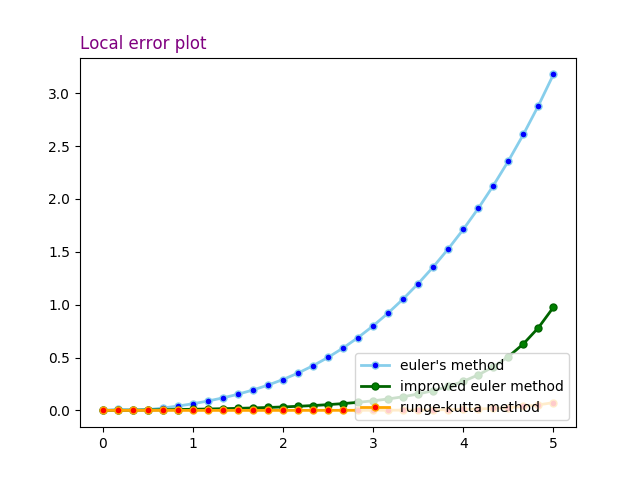
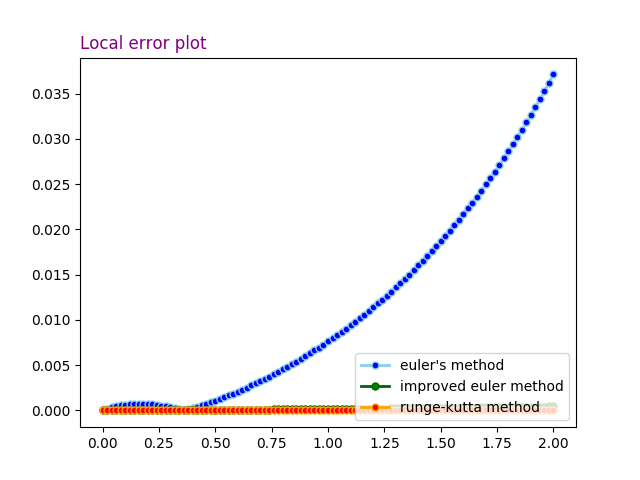
fixed last comments

diff --git a/plots-update.py b/plots-update.py
@@ -43,9 +43,7 @@ class Exact_equation:
 class Global_error:
 
     def get_error(self, y, n):
-        alfa = 0
-        for i in range(0, n + 1):
-            alfa = alfa + y[i]
+        alfa = y[n]
         return alfa
 
 
@@ -70,88 +68,87 @@ class Numerical_methods:
             return 0
         return math.exp(x) + 1/(const-x)
 
-    def get_curve(self):
+    def get_curve(self, n):
         pass
 
-    def get_error(self, y):
+    def get_error(self, y, n):
         pass
 
 
 class Eulers_method(Numerical_methods):
 
-    def get_curve(self):
-        x = [0]*(self.n+1)
-        y = [0]*(self.n+1)
-        h = (self.b-self.x0)/self.n
+    def get_curve(self, n):
+        x = [0]*(n+1)
+        y = [0]*(n+1)
+        h = (self.b-self.x0)/n
 
         y[0] = self.y0
         x[0] = self.x0
 
-        for i in range(1, self.n+1):
+        for i in range(1, n+1):
             x[i] = self.x0 + i*h
 
         # the equation of the tangent line
         y[1] = self.y0 + h*super().initial_value_problem(self.x0, self.y0)
-        for i in range(2, self.n+1):
+        for i in range(2, n+1):
             y[i] = y[i-1] + h*super().initial_value_problem(x[i-1], y[i-1])
 
         return y
 
-    def get_error(self, y):
-        x = [0]*(self.n+1)
+    def get_error(self, y, n):
+        x = [0]*(n+1)
         x[0] = self.x0
-        h = (self.b-self.x0)/self.n
+        h = (self.b-self.x0)/n
 
-        error = [0]*(self.n+1)
+        error = [0]*(n+1)
         error[0] = 0
 
-        for i in range(1, self.n+1):
+        for i in range(1,n+1):
             x[i] = self.x0 + i*h
 
         # error at the i th step.
-        for i in range(1, self.n+1):
-            error[i] = math.fabs(super().exact_solution(
-                x[i]) - y[i])  # math.fabs(X)
+        for i in range(1,n+1):
+            error[i] = math.fabs(super().exact_solution(x[i]) - y[i])  # math.fabs(X)
 
         return error
 
 
 class Improved_euler_method(Numerical_methods):
 
-    def get_curve(self):
-        x = [0]*(self.n+1)
-        y = [0]*(self.n+1)
-        h = (self.b-self.x0)/self.n
+    def get_curve(self, n):
+        x = [0]*(n+1)
+        y = [0]*(n+1)
+        h = (self.b-self.x0)/n
 
         y[0] = self.y0
         x[0] = self.x0
 
-        for i in range(1, self.n+1):
+        for i in range(1, n+1):
             x[i] = self.x0 + i*h
 
         # the equation of the tangent line
         y[1] = self.y0 + (h/2)*(super().initial_value_problem(self.x0, self.y0) +
                                 super().initial_value_problem(x[1], self.y0+h*super().initial_value_problem(self.x0, self.y0)))
-        for i in range(2, self.n+1):
+        for i in range(2, n+1):
             y[i] = y[i-1] + (h/2)*(super().initial_value_problem(x[i-1], y[i-1]) +
                                    super().initial_value_problem(x[i], y[i-1]+h*super().initial_value_problem(x[i-1], y[i-1])))
 
         return y
 
-    def get_error(self, y):
-        x = [0]*(self.n+1)
-        h = (self.b-self.x0)/self.n
+    def get_error(self, y, n):
+        x = [0]*(n+1)
+        h = (self.b-self.x0)/n
 
         x[0] = self.x0
 
-        error = [0]*(self.n+1)
+        error = [0]*(n+1)
         error[0] = 0
 
-        for i in range(1, self.n+1):
+        for i in range(1, n+1):
             x[i] = self.x0 + i*h
 
         # error at the i th step.
-        for i in range(1, self.n+1):
+        for i in range(1, n+1):
             error[i] = math.fabs(super().exact_solution(x[i]) - y[i])
 
         return error
@@ -159,19 +156,19 @@ class Improved_euler_method(Numerical_methods):
 
 class Runge_kutta_method(Numerical_methods):
 
-    def get_curve(self):
-        x = [0]*(self.n+1)
-        y = [0]*(self.n+1)
-        h = (self.b-self.x0)/self.n
+    def get_curve(self, n):
+        x = [0]*(n+1)
+        y = [0]*(n+1)
+        h = (self.b-self.x0)/n
 
         y[0] = self.y0
         x[0] = self.x0
 
-        for i in range(1, self.n+1):
+        for i in range(1, n+1):
             x[i] = self.x0 + i*h
 
         # the equation of the tangent line
-        for i in range(1, self.n+1):
+        for i in range(1, n+1):
             k_1 = super().initial_value_problem(x[i-1], y[i-1])
             k_2 = super().initial_value_problem(x[i-1] + h/2, y[i-1]+(h/2)*k_1)
             k_3 = super().initial_value_problem(x[i-1] + h/2, y[i-1]+(h/2)*k_2)
@@ -180,20 +177,20 @@ class Runge_kutta_method(Numerical_methods):
             y[i] = y[i-1] + (h/6)*(k_1 + 2*k_2 + 2*k_3 + k_4)
         return y
 
-    def get_error(self, y):
-        x = [0]*(self.n+1)
-        h = (self.b-self.x0)/self.n
+    def get_error(self, y, n):
+        x = [0]*(n+1)
+        h = (self.b-self.x0)/n
 
         x[0] = self.x0
 
-        error = [0]*(self.n+1)
+        error = [0]*(n+1)
         error[0] = 0
 
-        for i in range(1, self.n+1):
+        for i in range(1, n+1):
             x[i] = self.x0 + i*h
 
         # error at the i th step.
-        for i in range(1, self.n+1):
+        for i in range(1,n+1):
             error[i] = math.fabs(super().exact_solution(x[i]) - y[i])
 
         return error
@@ -287,7 +284,7 @@ class Draw_plot_for_global_error_plot(Draw_plot):
 
 
 if __name__ == "__main__":
-
+    # x0, y0, n, b):
     euler_method = Eulers_method(float(sys.argv[1]), float(
         sys.argv[2]), int(sys.argv[4]), float(sys.argv[3]))
 
@@ -302,7 +299,7 @@ if __name__ == "__main__":
 
     global_error = Global_error()
 
-    em = [0]*(int(sys.argv[6]) - int(sys.argv[5])+1)
+    em = [0]*(int(sys.argv[6]) - int(sys.argv[5]) +1)
     iem = [0]*(int(sys.argv[6]) - int(sys.argv[5])+1)
     rkm = [0]*(int(sys.argv[6]) - int(sys.argv[5])+1)
     xn = [0]*(int(sys.argv[6]) - int(sys.argv[5])+1)
@@ -314,17 +311,18 @@ if __name__ == "__main__":
             sys.argv[2]), int(sys.argv[5])+i, float(sys.argv[3]))
         m3 = Runge_kutta_method(float(sys.argv[1]), float(
             sys.argv[2]), int(sys.argv[5])+i, float(sys.argv[3]))
-        em[i] = global_error.get_error(m1.get_error(
-            euler_method.get_curve()), int(sys.argv[5])+i)
-        iem[i] = global_error.get_error(m2.get_error(
-            improved_euler_method.get_curve()), int(sys.argv[5])+i)
-        rkm[i] = global_error.get_error(m3.get_error(
-            runge_kutta_method.get_curve()), int(sys.argv[5])+i)
-    plot_exact_solution = Draw_plot_for_exact_solution(
-        exact_equation.array_x_axis(), exact_equation.array_exact(),  euler_method.get_curve(), improved_euler_method.get_curve(), runge_kutta_method.get_curve())
 
-    plot_local_error = Draw_plot_for_local_error_plot(exact_equation.array_x_axis(), euler_method.get_error(euler_method.get_curve(
-    )), improved_euler_method.get_error(improved_euler_method.get_curve()), runge_kutta_method.get_error(runge_kutta_method.get_curve()))
+        em[i] = global_error.get_error(m1.get_error( m1.get_curve(int(sys.argv[5])+i),int(sys.argv[5])+i ), int(sys.argv[5])+i)
+
+        iem[i] = global_error.get_error(m2.get_error(m2.get_curve(int(sys.argv[5])+i),int(sys.argv[5])+i ), int(sys.argv[5])+i)
+
+        rkm[i] = global_error.get_error(m3.get_error( m3.get_curve(int(sys.argv[5])+i),int(sys.argv[5])+i ), int(sys.argv[5])+i)
+
+    plot_exact_solution = Draw_plot_for_exact_solution(
+        exact_equation.array_x_axis(), exact_equation.array_exact(),  euler_method.get_curve( int(sys.argv[4])), improved_euler_method.get_curve( int(sys.argv[4])), runge_kutta_method.get_curve( int(sys.argv[4])))
+
+    plot_local_error = Draw_plot_for_local_error_plot(exact_equation.array_x_axis(), euler_method.get_error(euler_method.get_curve( int(sys.argv[4])
+    ),int(sys.argv[4]) ), improved_euler_method.get_error(improved_euler_method.get_curve( int(sys.argv[4])),int(sys.argv[4]) ), runge_kutta_method.get_error(runge_kutta_method.get_curve( int(sys.argv[4])),int(sys.argv[4]) ))
 
     draw_plot_for_global_error_plot = Draw_plot_for_global_error_plot(
         xn, em, iem, rkm, int(sys.argv[5]), int(sys.argv[6]))
